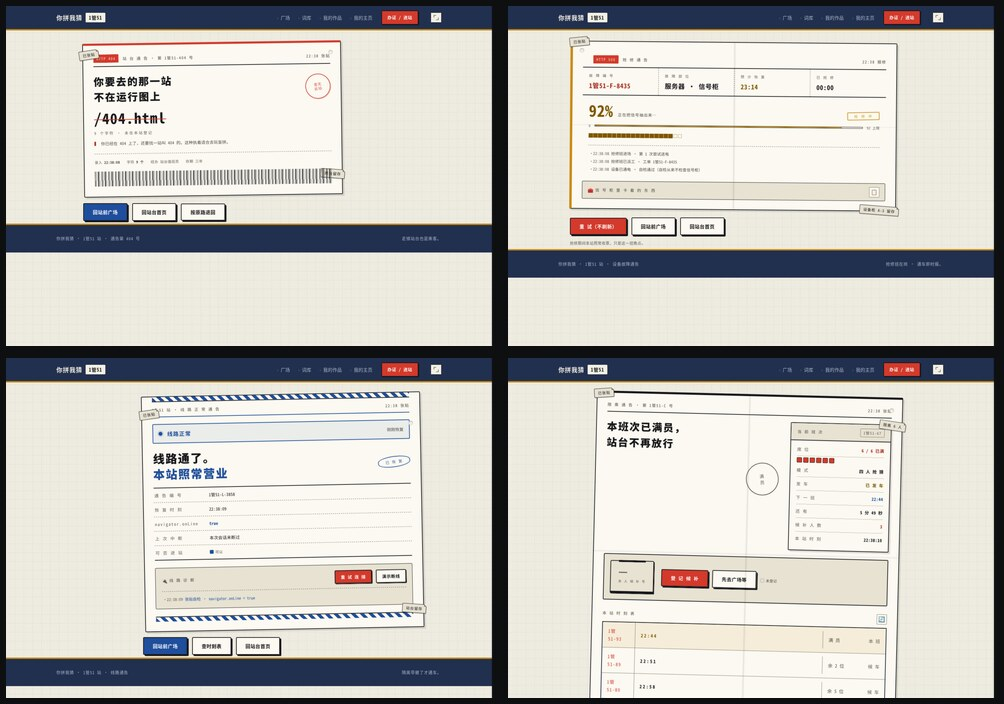
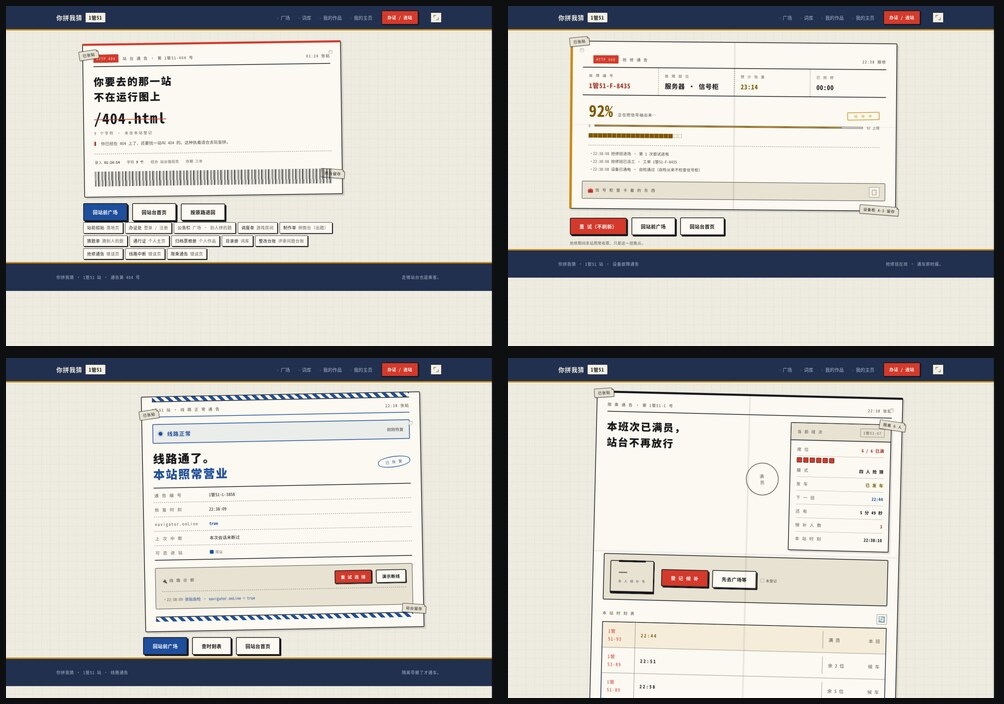
index.html 的路由 + 404 站台导向图，路由逻辑做成可断言的纯函数
用户：「index.html 写一个路由」。

## 设计：多页结构，路由只做「派发」

这个站点是 14 个独立 HTML，所以路由**不做视图替换，只做派发** ——
哈希命中就跳过去；不命中就什么也不做，当前页照常渲染。

用途有两个：
  ① PWA 深链 —— manifest 的 start_url 是 index.html，
     所以 `index.html#/room` 要能进房间（装到桌面的快捷方式都走这条）
  ② 404 页拿同一张表给出路

**表放在 pwa.js 而不是 index.html**：pwa.js 是每个页面都加载的应用外壳，
放这儿才可能被 404 页共用；放 index.html 就只有落地页能用。
「index.html 的路由」= index.html 是入口（dispatch 从它开始），不是表只能写在它里面。

## 404 页的站台导向图

原来只有两个按钮。现在用同一张表渲染出**全部 13 个站台**，
每个带单据类型与说明（公告栏·广场 / 调度单·游戏房间 / 制作单·拼图台…）。
认错路的人才最需要看到全部站台。

## 三处自己踩的坑

① **注释与代码矛盾**：我写 `if (HTTP) dispatch()`，注释却是「file:// 下也认」。
   跳转是纯前端行为，file:// 一样成立 —— 路由在 file:// 下静默失效。
② **一个正则表达两个可选**：`.replace(/^#\/?/,"")` 里 `#` 是必需的、`/` 才可选，
   于是 `#/room` 过、裸写 `/room` 过不了。**单元测试当场抓到。**
   改为分两步剥。
③ **删元素没删引用**：我给 404 换出路结构时删掉了 `#back`（按原路退回），
   而 JS 还引用它 —— **check.sh 的死引用检查当场抓到**。
   已恢复，导向图作为补充放在主出路下方。

## 新增两样检查

- `tools/route_test.py`（check.sh 第 7.5 组）：routeTo 是纯函数，直接断言 9 个用例。
  为什么不做跳转测试：Firefox headless 的 `--screenshot` **抓不到**
  「加载期就 location.replace」的页面（截图直接失败，我试了三次）。
  把逻辑拆成纯函数是唯一能断言的办法。
- `tools/route_unittest.html`：同一组用例的浏览器版，便于人工查看。

check.sh 全绿（十三组分段）。

Changed region(s): [[0.0, 0.3125, 0.494, 0.4375], [0.3088, 0.0938, 0.3396, 0.125]]

diff --git a/app/pwa.js b/app/pwa.js
@@ -10,6 +10,68 @@
   "use strict";
   var HTTP = location.protocol === "http:" || location.protocol === "https:";
 
+
+  /* ── ⓪ 站台导向图 · 客户端路由 ──────────────────────────────
+     这个站点是多页的（14 个 HTML），所以路由**不做视图替换，只做派发**：
+     哈希命中就跳过去；不命中就什么也不做，当前页照常渲染。
+
+     两个用途：
+       ① PWA 深链 —— manifest 的 start_url 是 index.html，
+          所以 `index.html#/room` 要能进房间（安装到桌面后的快捷方式都走这条）
+       ② 404 页拿同一张表给出路 —— 一张真的线路图，而不是两个按钮
+
+     表放这里而不是 index.html：pwa.js 是**每个页面都加载**的应用外壳，
+     放这儿才可能被 404 页共用；放 index.html 就只有落地页能用。
+     「index.html 的路由」= index.html 是入口（dispatch 从它开始），
+     而不是表只能写在它里面。 */
+  var ROUTES = [
+    ["index",   "index.html",   "站前招贴", "落地页"],
+    ["login",   "login.html",   "办证处",   "登录 / 注册"],
+    ["plaza",   "plaza.html",   "公告栏",   "广场 · 别人拼的题"],
+    ["room",    "room.html",    "调度单",   "游戏房间"],
+    ["compose", "compose.html", "制作单",   "拼图台（出题）"],
+    ["guess",   "guess.html",   "猜题单",   "猜别人的题"],
+    ["me",      "me.html",      "通行证",   "个人主页"],
+    ["works",   "works.html",   "归档票根册", "个人作品"],
+    ["banks",   "banks.html",   "目录册",   "词库"],
+    ["issues",  "issues.html",  "整改台账", "评审问题台账"],
+    ["404",     "404.html",     "查无此站", "错误页"],
+    ["500",     "500.html",     "抢修通告", "错误页"],
+    ["offline", "offline.html", "线路中断", "错误页"],
+    ["full",    "full.html",    "限乘通告", "错误页"]
+  ];
+  var byKey = {};
+  ROUTES.forEach(function (r) { byKey[r[0]] = r; });
+  window.YPWC_ROUTES = ROUTES;          /* 给 404 页与调试用 */
+
+  /* 把哈希解析成目标页 —— **纯函数，不跳转**。
+     拆出来是为了可测：Firefox headless 的 --screenshot 抓不到
+     「加载期就 location.replace」的页面（截图直接失败），
+     所以跳转本身没法截图验证。有了这个纯函数，路由就能被断言。
+     404 页也用它把哈希翻译成出路。 */
+  function routeTo(key) {
+    // ⚠ 原写法 .replace(/^#\/?/,"") 里 `#` 是必需的、`/` 才是可选的 ——
+    //   于是 `#/room` 过、而裸写 `/room` 过不了（单元测试当场抓到）。
+    //   正确是「# 可有可无、/ 也可有可无」，所以分两步剥，别用一个正则去表达两个可选。
+    var h = String(key == null ? (location.hash || "") : key)
+              .trim().replace(/^#/, "").replace(/^\//, "").toLowerCase();
+    if (!h || !byKey[h]) return null;                 /* 认不到 → 不干预 */
+    if (byKey[h][1] === location.pathname.split("/").pop()) return null;  /* 已在本页，别自跳 */
+    return byKey[h][1];
+  }
+  window.YPWC_ROUTE_TO = routeTo;   /* 调试与 404 页共用 */
+
+  function dispatch() {
+    var to = routeTo();
+    if (to) location.replace(to);
+    return !!to;
+  }
+  // ⚠ 不套 if(HTTP)：跳转是纯前端行为，file:// 下一样成立。
+  //   我第一版写成 if(HTTP) dispatch() 而注释写着「file:// 下也认」——
+  //   注释与代码矛盾，路由在 file:// 下静默失效。
+  dispatch();
+  addEventListener("hashchange", dispatch);
+
   /* ── ① Service Worker（仅 http(s)）────────────────────── */
   if (HTTP && "serviceWorker" in navigator) {
     addEventListener("load", function () {

diff --git a/app/404.html b/app/404.html
@@ -65,6 +65,14 @@
 /* 出口区：与通告纸同宽、同轴 */
 .exits{max-width:760px;margin:0 0 0 7%;padding-top:22px}
 @media(max-width:900px){.paper404, .exits{margin-left:0;margin-right:0}}
+
+/* 站台导向图：认错路的人最需要看到全部站台。 */
+.routemap{display:flex;flex-wrap:wrap;gap:6px;margin-top:4px}
+.routemap a{font-family:var(--mono);font-size:12px;letter-spacing:.06em;text-decoration:none;
+  color:var(--ink);background:var(--paper-4);border:1.5px solid var(--ink);border-radius:2px;
+  padding:5px 10px;box-shadow:2px 2px 0 var(--ink)}
+.routemap a:hover{background:var(--amber);border-color:var(--amber-ink)}
+.routemap a i{font-style:normal;color:var(--ink-3);margin-left:6px}
 </style>
 <link rel="manifest" href="manifest.webmanifest">
 <meta name="theme-color" content="#22304F">
@@ -129,11 +137,19 @@
 
     <!-- ==================== 出口 ==================== -->
     <div class="exits">
+      <!-- 出路由 pwa.js 的站台导向图（YPWC_ROUTES）渲染 ——
+           一个真的线路图，而不是手写的两个按钮。
+           认不到路的人才最需要看到全部 14 个站台。
+           手写按钮作为**无 JS 回退**保留。 -->
+      <!-- 三个主出路。导向图是**补充**，不是替换 ——
+           最常用的两条路不该让人在一堆站台里找。 -->
       <div class="btn-row">
         <a class="btn blue" href="plaza.html">回站前广场</a>
         <a class="btn ghost" href="index.html">回站台首页</a>
         <button class="btn ghost" type="button" id="back">按原路退回</button>
       </div>
+      <div id="routeMap" class="routemap" aria-label="站台导向图"></div>
+    </div>
     </div>
 
   </div>
@@ -221,5 +237,18 @@ console.log("%c这张通告上被划掉的，就是你刚才输的那一行。\n
   "color:#4A4841;line-height:1.75;font-family:monospace");
 </script>
 <script src="pwa.js"></script>
+<script>
+/* 用 pwa.js 的同一张路由表渲染出路 —— 表只有一份，改了不会两边不一致。 */
+addEventListener("DOMContentLoaded", function () {
+  var box = document.getElementById("routeMap");
+  if (!box || !window.YPWC_ROUTES) return;
+  var here = location.pathname.split("/").pop();
+  box.innerHTML = window.YPWC_ROUTES
+    .filter(function (r) { return r[1] !== here; })      /* 不给自己出路 */
+    .map(function (r) {
+      return '<a href="' + r[1] + '">' + r[2] + '<i>' + r[3] + '</i></a>';
+    }).join("");
+});
+</script>
 </body>
 </html>

diff --git a/tools/route_unittest.html b/tools/route_unittest.html
@@ -1,0 +1,14 @@
+<!DOCTYPE html><html><head><meta charset="utf-8"></head><body>
+<script src="pwa.js"></script>
+<script>
+var cases=[["room","room.html"],["/room","room.html"],["#/compose","compose.html"],
+           ["COMPOSE","compose.html"],["nosuch",null],["",null],["  /plaza  ","plaza.html"]];
+var out=cases.map(function(c){
+  var got=window.YPWC_ROUTE_TO(c[0]);
+  var ok=(got===c[1]);
+  return (ok?"PASS":"FAIL")+"  routeTo("+JSON.stringify(c[0])+") = "+JSON.stringify(got)+"  期望 "+JSON.stringify(c[1]);
+});
+var bad=out.filter(function(s){return s.indexOf("FAIL")===0}).length;
+document.body.style.cssText="margin:0;font:13px/1.7 monospace;padding:10px;white-space:pre;background:"+(bad?"#FF0000":"#00CC00");
+document.body.textContent="routeTo 单元测试："+(cases.length-bad)+"/"+cases.length+" 通过\n\n"+out.join("\n");
+</script></body></html>

diff --git a/tools/route_test.py b/tools/route_test.py
@@ -1,0 +1,64 @@
+#!/usr/bin/env python3
+"""pwa.js 的 routeTo 单元测试。
+
+跳转本身没法截图验证 —— Firefox headless 的 --screenshot 抓不到
+「加载期就 location.replace」的页面（截图直接失败）。
+所以把路由拆成纯函数 routeTo(key)，在这里断言。
+
+绿=全过，红=有失败（读数同 canvas_invariants.py）。
+"""
+import os, pathlib, subprocess, sys
+
+ROOT = pathlib.Path(__file__).resolve().parent.parent
+WORK = pathlib.Path("/home/mango/workspace/.ffwork")
+FF = "/snap/firefox/current/usr/lib/firefox/firefox"
+
+CASES = [
+    ("room", "room.html"), ("/room", "room.html"),
+    ("#/compose", "compose.html"), ("COMPOSE", "compose.html"),
+    ("  /plaza  ", "plaza.html"), ("#guess", "guess.html"),
+    ("nosuch", None), ("", None), ("#/", None),
+]
+
+
+def main():
+    (WORK / "app").mkdir(parents=True, exist_ok=True)
+    (WORK / "home").mkdir(exist_ok=True)
+    (WORK / "shots").mkdir(exist_ok=True)
+    (WORK / "app" / "pwa.js").write_bytes((ROOT / "app" / "pwa.js").read_bytes())
+    js = ",".join('[%s,%s]' % (repr(a).replace("'", '"'),
+                              "null" if b is None else '"%s"' % b) for a, b in CASES)
+    page = '''<!DOCTYPE html><html><head><meta charset="utf-8"></head><body>
+<script src="pwa.js"></script>
+<script>
+var cases=[%s];
+var out=cases.map(function(c){
+  var got=window.YPWC_ROUTE_TO(c[0]); var ok=(got===c[1]);
+  return (ok?"PASS":"FAIL")+"  routeTo("+JSON.stringify(c[0])+") = "+JSON.stringify(got)+"  期望 "+JSON.stringify(c[1]);
+});
+var bad=out.filter(function(s){return s.indexOf("FAIL")===0}).length;
+document.body.style.cssText="margin:0;font:13px/1.6 monospace;padding:10px;white-space:pre;background:"+(bad?"#FF0000":"#00CC00");
+document.body.textContent="routeTo "+(cases.length-bad)+"/"+cases.length+"\\n"+out.join("\\n");
+</script></body></html>''' % js
+    q = WORK / "app" / "_routetest.html"
+    q.write_text(page, encoding="utf-8")
+    shot = WORK / "shots" / "routetest.png"
+    shot.unlink(missing_ok=True)
+    subprocess.run([FF, "--headless", "--no-remote", "--window-size=900,320",
+                    "--screenshot", str(shot), f"file://{q}"],
+                   env={**os.environ, "HOME": str(WORK / "home")},
+                   capture_output=True, timeout=90)
+    if not shot.exists():
+        print("     routeTo 单元测试：渲染失败"); return 1
+    r = subprocess.run(["convert", str(shot), "-format", "%[pixel:p{450,160}]", "info:"],
+                       capture_output=True, text=True)
+    col = r.stdout.strip().lower()
+    if "0,204,0" in col:
+        print(f"  \033[32m✓\033[0m routeTo 单元测试 {len(CASES)}/{len(CASES)} 通过"
+              f"（#/room · /room · COMPOSE · 空白 · 未知路由不干预）")
+        return 0
+    print("     routeTo 有断言失败（涂红）"); return 1
+
+
+if __name__ == "__main__":
+    sys.exit(main())
